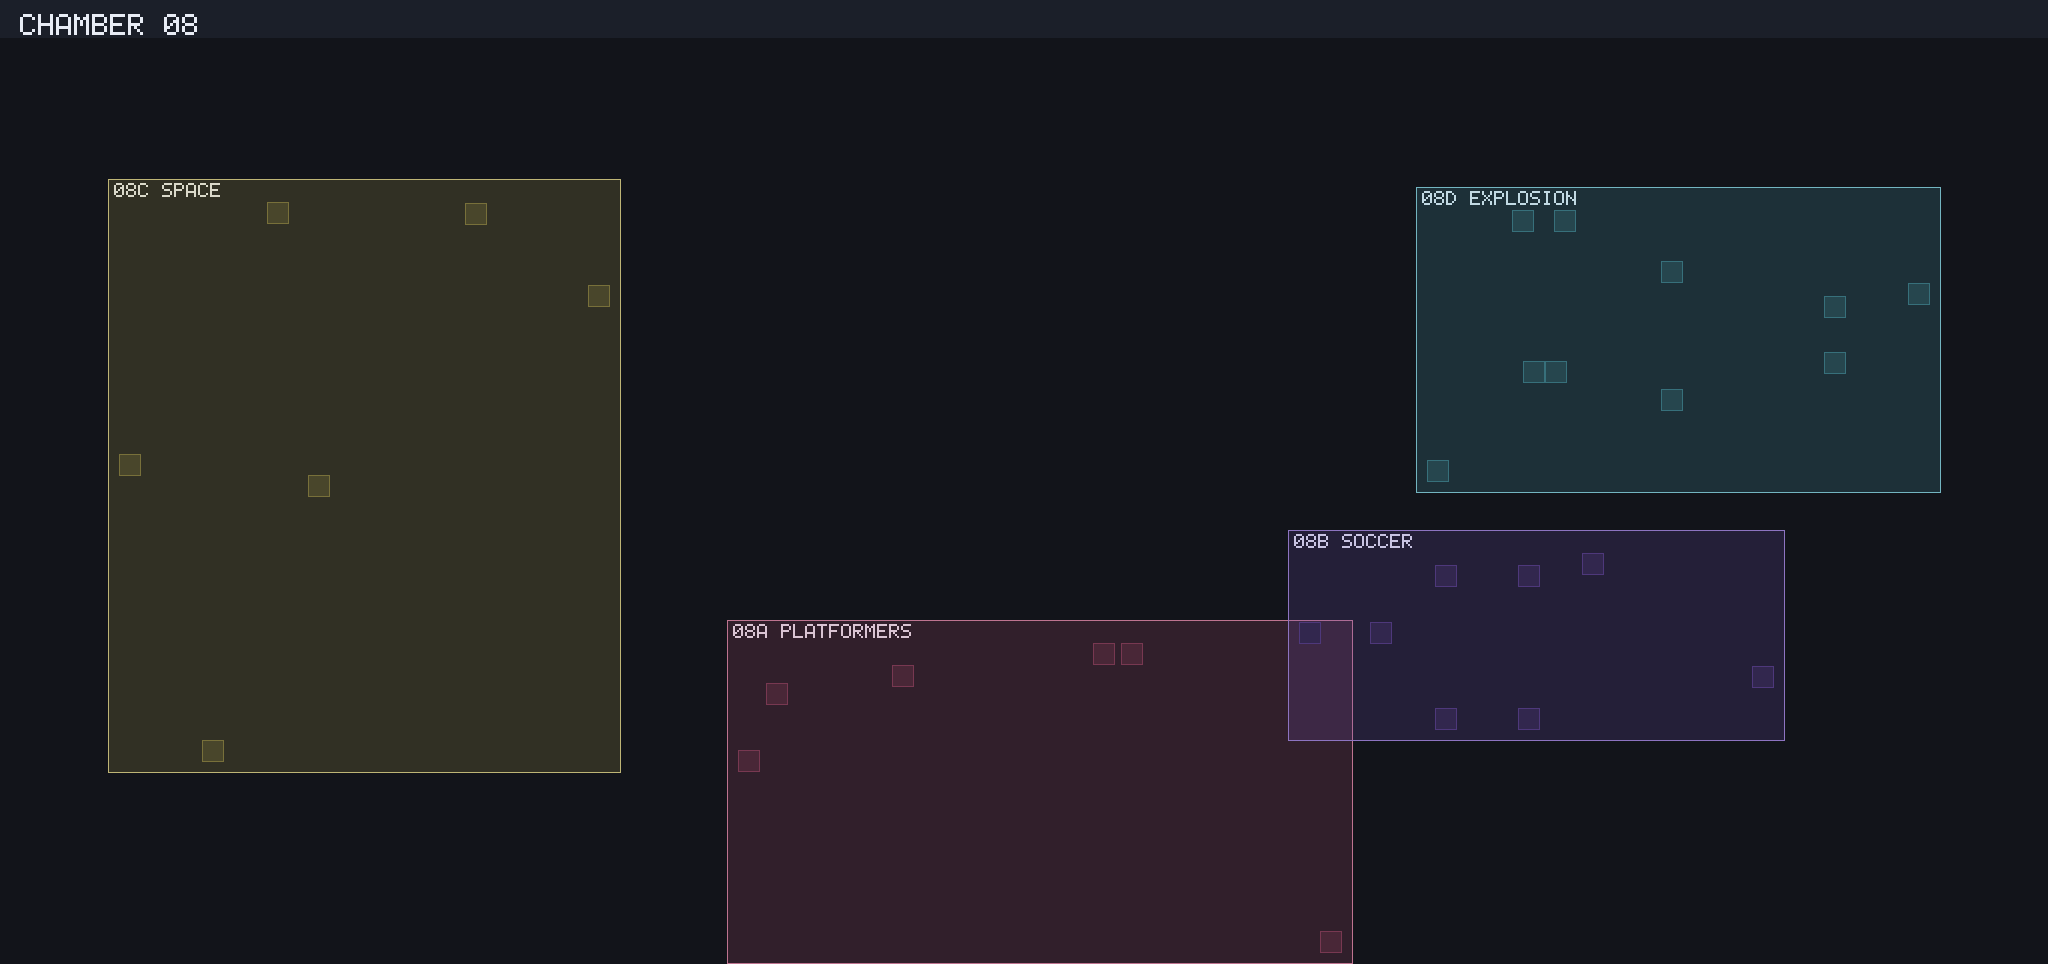
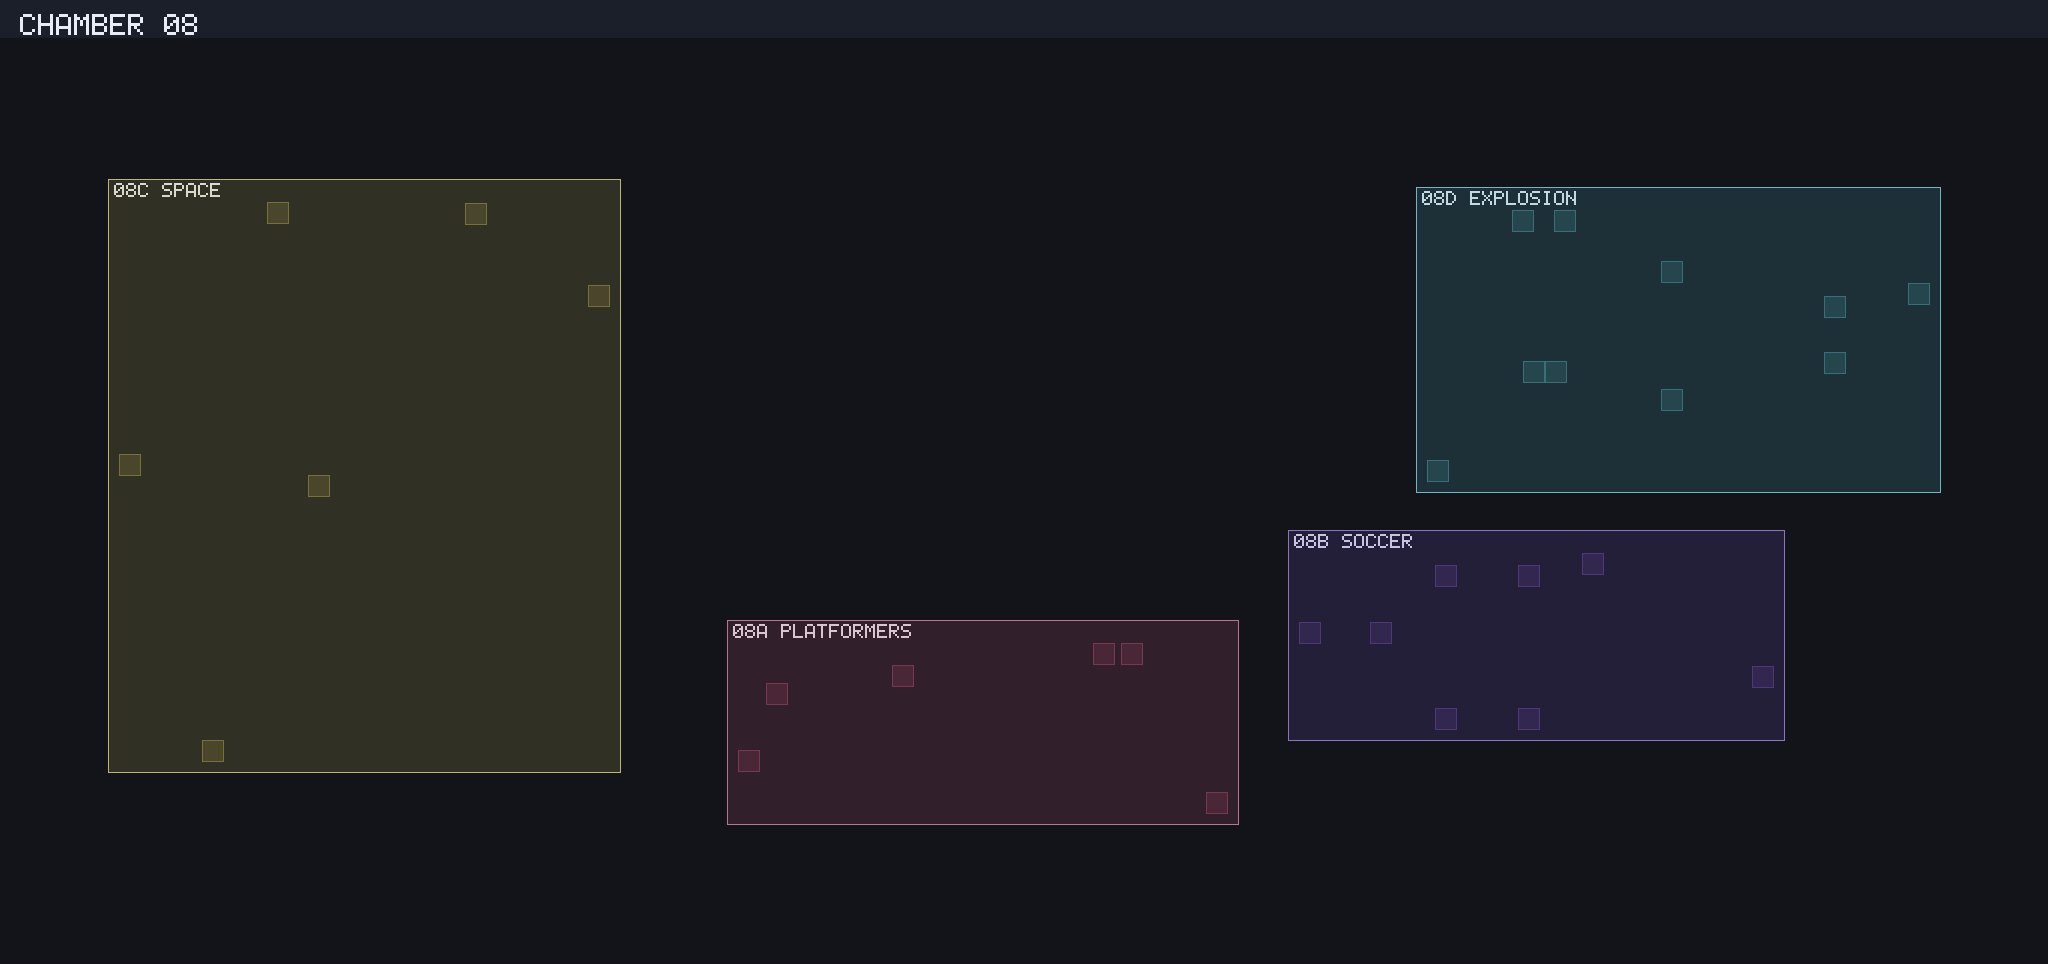
Fix Computer 1's map marker being overwritten by an episode door
wtg_doors.json contains "Alive::ID_2D_HOLEINONE_1" -- a door inside the Alive
episode that reuses Computer 1's bossLevelID (349CM9). load_world_positions
iterated every door record regardless of campaign and keyed positions by scene,
so that episode door silently overwrote the real Computer 1 with a position 18
world units away. The marker then landed outside chamber 08's window and was
clamped to the bottom edge: (1331,942) where 942 is exactly height-DOT. It now
sits at (1217,803), on the actual computer.

Doors are filtered to Main. No episode hole is a boss, so Main is the only
legitimate source of a boss position here.

Marker clamping is also no longer silent. Falling outside the rendered window
means the pin no longer points at the thing it represents, which is precisely how
this went unnoticed, so the build now lists every clamped marker. Three remain,
all understood and none of them bugs:

  Computer 2            on chamber_07   95 px below the edge
  Lebowski Secret Chest on chamber_07  381 px right of the edge
  Holoroom Chest        on chamber_02  1584 px below the edge

The first two follow from the apworld assigning each computer to the chamber it
OPENS while the door physically stands at the end of the previous one (Computer 2
is lit by all four of chamber 08's sub-areas but gates chamber 07), and the
Lebowski Secret chest sits past that same door. Holoroom is the documented
outlier -- assigned to chamber 02 after live testing, physically inside chamber
[…]

Changed region(s): [[0.3438, 0.6224, 0.6875, 1.0]]

diff --git a/tools/build_poptracker.py b/tools/build_poptracker.py
@@ -151,6 +151,13 @@ def load_world_positions(world):
     scene_by_boss_id = {bd["boss_level_id"]: bd["scene"]
                         for bd in world.get("boss_doors", ())}
     for d in _load_json(DOORS_JSON, {}).get("doors", {}).values():
+        # Main only. An episode can contain a door reusing a campaign boss's
+        # LevelData.ID -- "Alive::ID_2D_HOLEINONE_1" carries Computer 1's id
+        # (349CM9) at a position 18 world units away, and without this filter it
+        # overwrote the real Computer 1 and threw its marker into the next
+        # chamber. No episode hole is a boss, so Main is the only source here.
+        if d.get("campaign", "Main") != "Main":
+            continue
         p = d.get("pos")
         scene = scene_by_boss_id.get(d.get("boss_level_id"))
         if p and scene and d.get("in_scene"):
@@ -825,6 +832,7 @@ class GridPlacer:
         self.maps = []
         self._pts = {}
         self.stats = {"dumped": 0, "grid": 0}
+        self.clamped = []          # markers pushed onto the image edge
         self._build_chambers()
         self._build_episodes()
 
@@ -854,9 +862,16 @@ class GridPlacer:
                     continue
                 px = int(round((p[0] - s["minx"]) / dx * w))
                 py = int(round((s["maxy"] - p[1]) / dy * h))  # Unity y-up -> y-down
-                # Keep the marker on the image even if a flag sits on the very edge.
-                px = max(self.DOT, min(w - self.DOT, px))
-                py = max(self.DOT, min(h - self.DOT, py))
+                # Keep the marker on the image even if it sits on the very edge.
+                cx = max(self.DOT, min(w - self.DOT, px))
+                cy = max(self.DOT, min(h - self.DOT, py))
+                if (cx, cy) != (px, py):
+                    # Clamping means the thing is OUTSIDE the rendered window, so
+                    # the pin no longer points at it. Silent clamping is how a
+                    # badly misplaced Computer 1 went unnoticed -- report it.
+                    self.clamped.append(
+                        f"{k} on {name}: ({px},{py}) -> ({cx},{cy})")
+                px, py = cx, cy
                 self._emit(name, k, (px, py))
                 pts.append((px, py))
             # Anything with no dumped position (Computer 9 has none) goes in a row
@@ -1485,6 +1500,11 @@ def main():
         est = sum(len(c["pos"]) for c in mp["cols"])
         if est:
             print(f"  {mp['name']}: {est} marker(s) still estimated")
+    if placer.clamped:
+        print(f"WARNING: {len(placer.clamped)} marker(s) fall outside their map's "
+              f"rendered window and were pinned to the edge:")
+        for c in placer.clamped:
+            print(f"  {c}")
 
     if args.zip:
         n = write_zip(OUT, args.zip)
